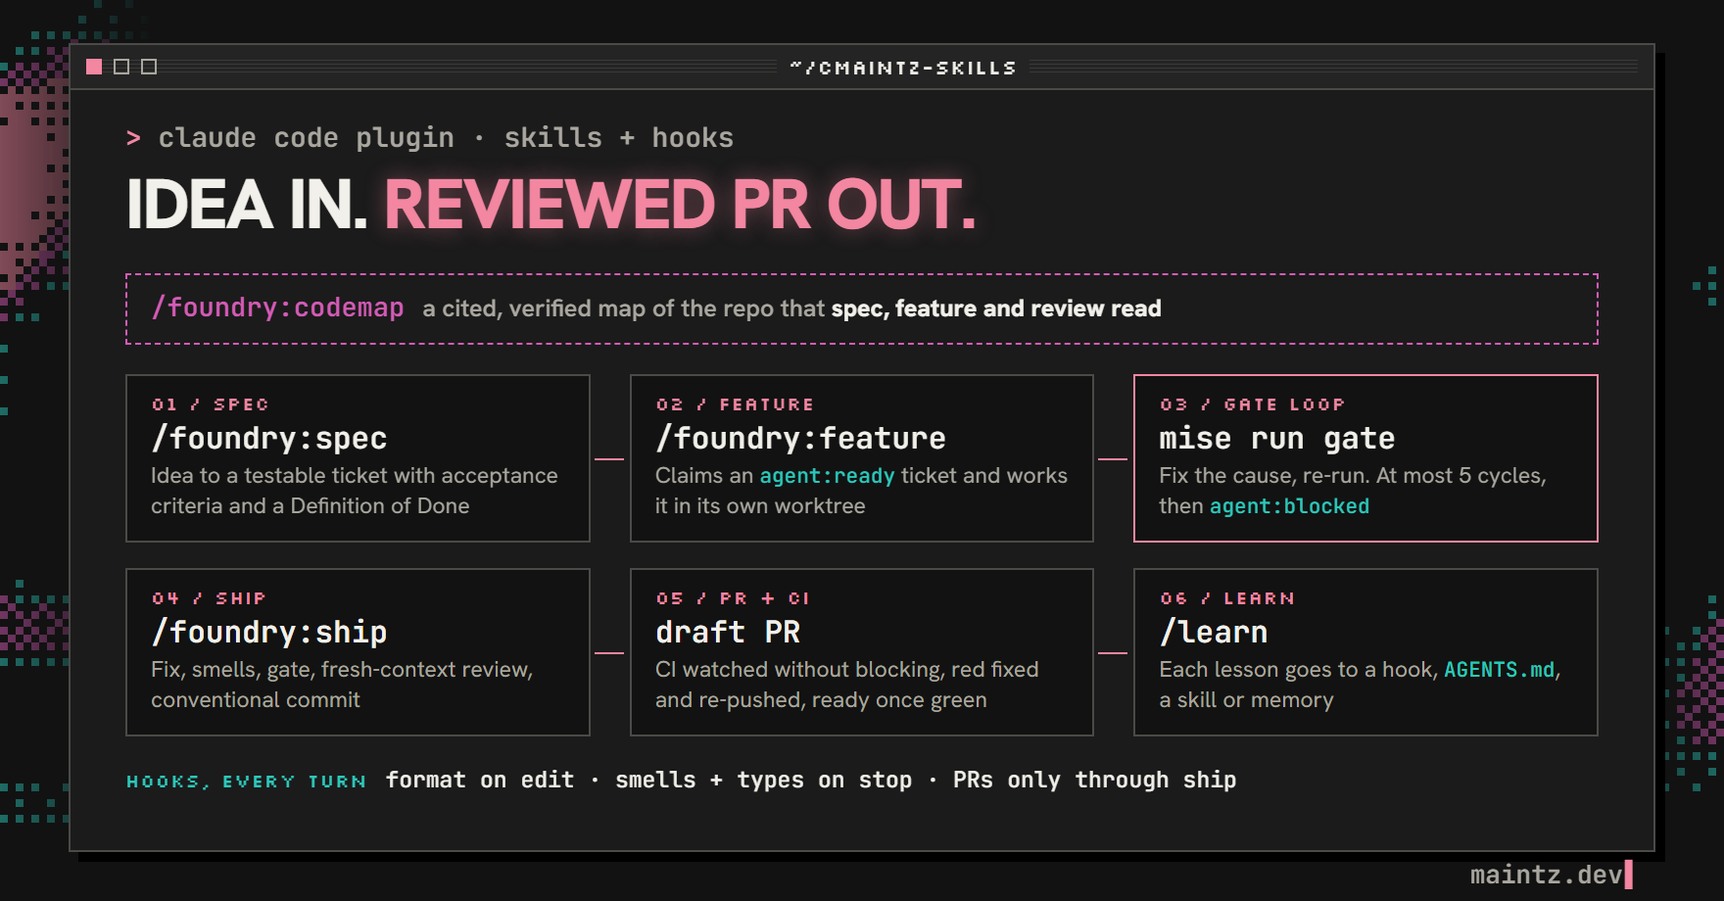
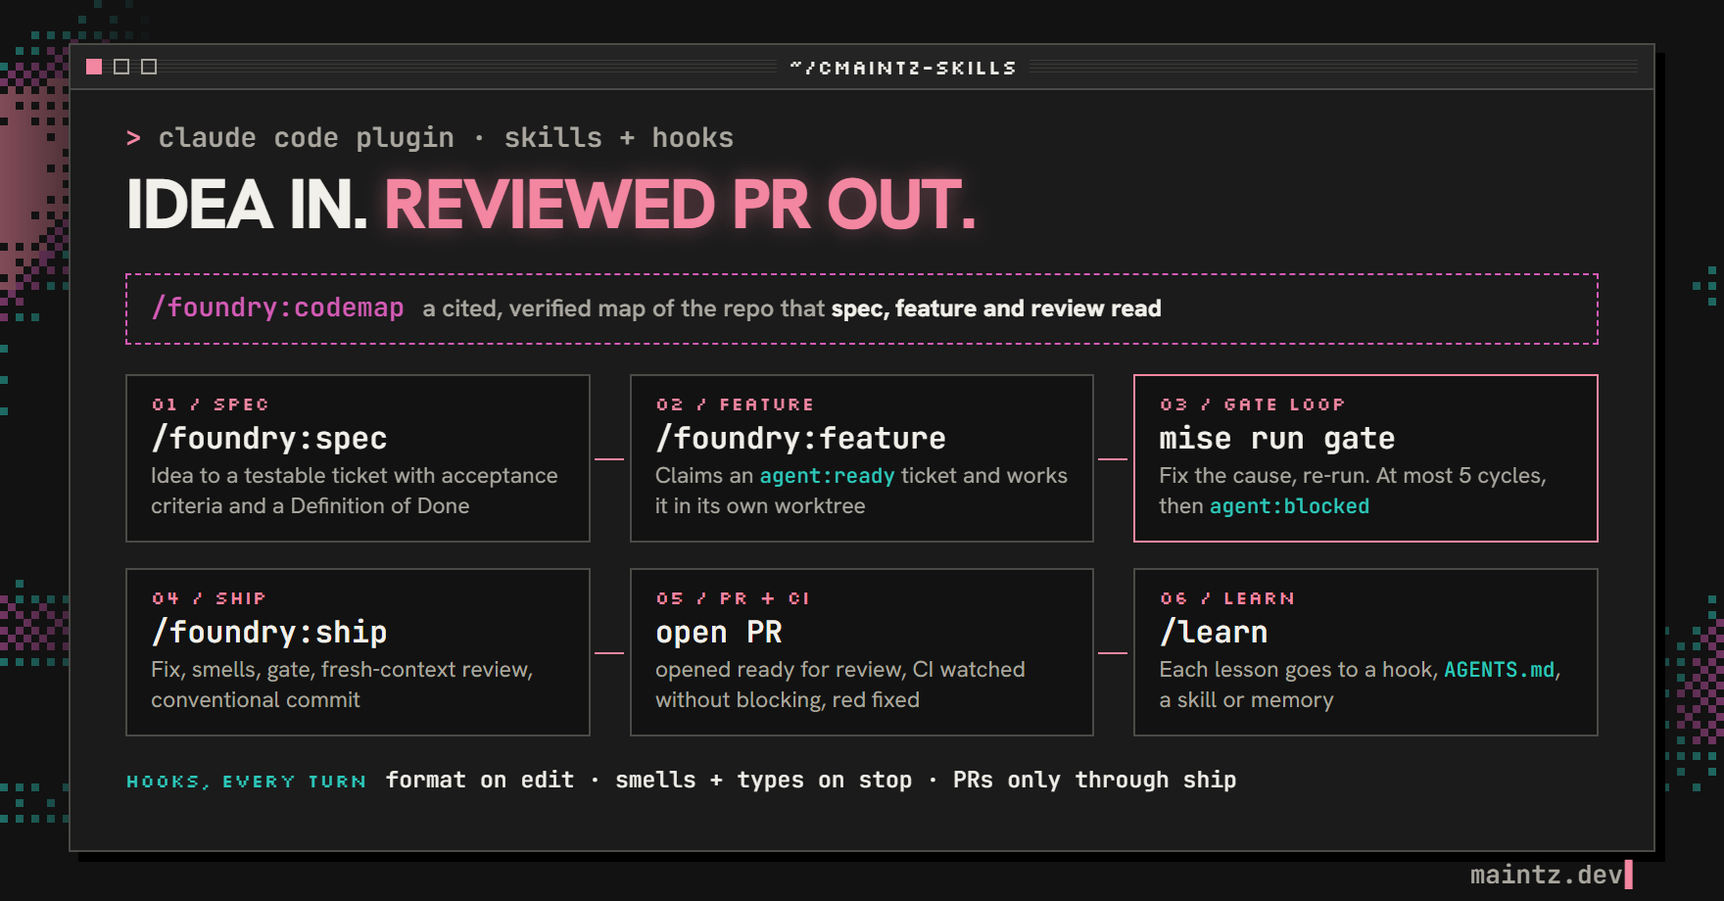
feat(foundry): open ship PRs ready for review instead of as drafts
Drafts added a manual-feeling flip step and kept the PR out of
reviewers' queues until CI went green. foundry-ship-pr now opens the PR
ready, marks a reused draft ready, and no longer passes
--ready-on-green to the watch. foundry-pr-watch keeps the flag for
anyone who opens a draft on purpose.

Changed region(s): [[0.375, 0.6696, 0.5938, 0.7913]]

diff --git a/docs/readme-visual.html b/docs/readme-visual.html
@@ -78,7 +78,7 @@
         <div class="step"><div class="n">02 / feature</div><h2>/foundry:feature</h2><p>Claims an <code>agent:ready</code> ticket and works it in its own worktree</p></div>
         <div class="step hot"><div class="n">03 / gate loop</div><h2>mise run gate</h2><p>Fix the cause, re-run. At most 5 cycles, then <code>agent:blocked</code></p></div>
         <div class="step"><div class="n">04 / ship</div><h2>/foundry:ship</h2><p>Fix, smells, gate, fresh-context review, conventional commit</p></div>
-        <div class="step"><div class="n">05 / pr + ci</div><h2>draft PR</h2><p>CI watched without blocking, red fixed and re-pushed, ready once green</p></div>
+        <div class="step"><div class="n">05 / pr + ci</div><h2>open PR</h2><p>opened ready for review, CI watched without blocking, red fixed</p></div>
         <div class="step"><div class="n">06 / learn</div><h2>/learn</h2><p>Each lesson goes to a hook, <code>AGENTS.md</code>, a skill or memory</p></div>
       </div>
 

diff --git a/docs/codemap/scripts.md b/docs/codemap/scripts.md
@@ -9,8 +9,8 @@ paths: [plugins/foundry/scripts]
 The executable side of the foundry plugin: the scripts its skills, hooks and MCP server shell out to. They open and CI-watch PRs (`plugins/foundry/scripts/foundry-ship-pr`), summarise verb telemetry (`plugins/foundry/scripts/foundry-loop-report`), inventory a repo for the codemap skill (`plugins/foundry/scripts/codemap/census.mjs#census`), serve read-only MCP tools (`plugins/foundry/scripts/explain-mcp/server.mjs`) and run the advisory Jev routing layer (`plugins/foundry/scripts/jev/route.mjs`).
 
 ## Features
-- Push the current branch, open a draft PR (or reuse the existing one) and start a background CI watch, with title and body read from files (`plugins/foundry/scripts/foundry-ship-pr#create_pr`, `plugins/foundry/scripts/foundry-ship-pr#existing_pr`). `--repo` is refused with exit 2; a rejected push exits 3 (`plugins/foundry/scripts/foundry-ship-pr`).
-- Wait for a PR's checks on a given commit, print the verdict and optionally mark the draft ready on green (`plugins/foundry/scripts/foundry-pr-watch#wait_for_checks`, `plugins/foundry/scripts/foundry-pr-watch`). The poll interval comes from `FOUNDRY_PR_WATCH_POLL_SECONDS`, default 15 (`plugins/foundry/scripts/foundry-pr-watch`).
+- Push the current branch, open a PR ready for review (or reuse the existing one, marking a draft ready) and start a background CI watch, with title and body read from files (`plugins/foundry/scripts/foundry-ship-pr#create_pr`, `plugins/foundry/scripts/foundry-ship-pr#existing_pr`). `--repo` is refused with exit 2; a rejected push exits 3 (`plugins/foundry/scripts/foundry-ship-pr`).
+- Wait for a PR's checks on a given commit, print the verdict and optionally mark a draft PR ready on green (`plugins/foundry/scripts/foundry-pr-watch#wait_for_checks`, `plugins/foundry/scripts/foundry-pr-watch`). The poll interval comes from `FOUNDRY_PR_WATCH_POLL_SECONDS`, default 15 (`plugins/foundry/scripts/foundry-pr-watch`).
 - One-shot, non-blocking check verdict for a PR, dumping the failed-step logs of each failing or cancelled run; exit 0 passed, 1 failed, 2 pending (`plugins/foundry/scripts/foundry-pr-report#checks_json`, `plugins/foundry/scripts/foundry-pr-report#dump_failures`).
 - Summarise verb telemetry JSONL into per-verb runs, fails, pass-to-fail regressions and still-red verbs, as text or `--json`; the text report adds the time sink and smell trend (`plugins/foundry/scripts/foundry-loop-report#summarise`, `plugins/foundry/scripts/foundry-loop-report#smell_trend`, `plugins/foundry/scripts/foundry-loop-report#as_json`). The log path is the argument, else `FOUNDRY_TELEMETRY`, else `.foundry/telemetry.jsonl` (`plugins/foundry/scripts/foundry-loop-report#main`).
 - Print a deterministic JSON census of a git repo: manifests, entrypoints, schemas, env vars, churn, co-change and a slice plan (`plugins/foundry/scripts/codemap/census.mjs#census`), via per-file-type detectors where the first matching detector handles a file (`plugins/foundry/scripts/codemap/census.mjs`, `plugins/foundry/scripts/codemap/detectors/`).
@@ -27,15 +27,15 @@ The executable side of the foundry plugin: the scripts its skills, hooks and MCP
 - Jev routing defaults `DEFAULT_CONFIG` (review depth threshold 1.5, min confidence 0.6, tool-call warn 0.5, hold off) (`plugins/foundry/scripts/jev/route.mjs#DEFAULT_CONFIG`).
 
 ## Happy paths
-### Ship a branch to a draft PR and watch its CI
+### Ship a branch to a PR and watch its CI
 1. Entrypoint: `foundry-ship-pr --body-file <path> [--title-file <path>] [--base <branch>]` (`plugins/foundry/scripts/foundry-ship-pr`). The guard hook names this script as the sanctioned path when it denies a bare `gh pr create` (`plugins/foundry/hooks/guard-pr-create.sh`).
 2. `git push -u origin HEAD` on every run; a rejection exits 3 (`plugins/foundry/scripts/foundry-ship-pr`).
-3. Looks up the branch's PR with `gh pr view`; if none, runs `gh pr create --draft --head <branch>` with the title from `--title-file` or HEAD's subject and the base from `--base` or the repo default branch (`plugins/foundry/scripts/foundry-ship-pr#existing_pr`, `plugins/foundry/scripts/foundry-ship-pr#create_pr`, `plugins/foundry/scripts/foundry-ship-pr#default_base`).
+3. Looks up the branch's PR with `gh pr view`; if none, runs `gh pr create --head <branch>` with the title from `--title-file` or HEAD's subject and the base from `--base` or the repo default branch (`plugins/foundry/scripts/foundry-ship-pr#existing_pr`, `plugins/foundry/scripts/foundry-ship-pr#create_pr`, `plugins/foundry/scripts/foundry-ship-pr#default_base`). A PR that is still a draft is marked ready with `gh pr ready` (`plugins/foundry/scripts/foundry-ship-pr`).
 4. Writes the PR URL to `.foundry/pr-url` (`plugins/foundry/scripts/foundry-ship-pr`).
-5. Builds the command `foundry-pr-watch <pr> --sha <pushed sha> --ready-on-green; echo sentinel` and runs it in a new Herdr pane when `HERDR_ENV=1` and the split succeeds, else as a `nohup` background process logging to `.foundry/pr-watch.log` (`plugins/foundry/scripts/foundry-ship-pr#watch_in_herdr_pane`, `plugins/foundry/scripts/foundry-ship-pr#watch_detached`).
+5. Builds the command `foundry-pr-watch <pr> --sha <pushed sha>; echo sentinel` and runs it in a new Herdr pane when `HERDR_ENV=1` and the split succeeds, else as a `nohup` background process logging to `.foundry/pr-watch.log` (`plugins/foundry/scripts/foundry-ship-pr#watch_in_herdr_pane`, `plugins/foundry/scripts/foundry-ship-pr#watch_detached`).
 6. In the watch: polls up to 20 times until the PR head equals the pushed sha and at least one check exists; exits 2 if the head never arrived or no checks registered (`plugins/foundry/scripts/foundry-pr-watch#wait_for_checks`).
 7. Runs `gh pr checks --watch --interval 30`, then `foundry-pr-report`, which lists `bucket<TAB>name` per check and, on any fail or cancel bucket, prints `gh run view --log-failed` for each run id (`plugins/foundry/scripts/foundry-pr-watch`, `plugins/foundry/scripts/foundry-pr-report#dump_failures`).
-8. Side effect: on exit 0 with `--ready-on-green`, `gh pr ready` marks the draft ready; the watch exits with the report's code (`plugins/foundry/scripts/foundry-pr-watch`).
+8. The watch exits with the report's code (`plugins/foundry/scripts/foundry-pr-watch`).
 
 ### Census a repo for the codemap skill
 1. Entrypoint: `node census.mjs [--since ...] [--threshold ...] [--min-shared ...]`, run directly (argv vs module realpath check); bad flags exit 2 (`plugins/foundry/scripts/codemap/census.mjs#invokedDirectly`, `plugins/foundry/scripts/codemap/census.mjs#parseArgs`). The codemap skill invokes it (`plugins/foundry/skills/codemap/SKILL.md`).

diff --git a/README.md b/README.md
@@ -2,7 +2,7 @@
 
 The agent half of [Foundry](https://github.com/CMaintz/foundry): a Claude Code plugin whose skills and hooks drive an agent from an idea to a reviewed pull request, and keep it honest against a deterministic gate on the way.
 
-![The cmaintz-skills loop: /foundry:spec turns an idea into a ticket, /foundry:feature claims it, mise run gate loops until green, /foundry:ship reviews and commits, a draft PR is watched in CI, and /learn routes the lessons. /foundry:codemap gives spec, feature and review a cited map of the repo. Hooks format, check smells and types, and force PRs through ship on every turn.](docs/readme-visual.png)
+![The cmaintz-skills loop: /foundry:spec turns an idea into a ticket, /foundry:feature claims it, mise run gate loops until green, /foundry:ship reviews and commits, the PR is watched in CI, and /learn routes the lessons. /foundry:codemap gives spec, feature and review a cited map of the repo. Hooks format, check smells and types, and force PRs through ship on every turn.](docs/readme-visual.png)
 
 ## The method
 
@@ -49,8 +49,8 @@ Only `plugins/foundry/` is installed; the rest of the repo (CI, docs, `mise.toml
 1. **`codemap`** maps the repo once, and refreshes only the slices that went stale.
 2. **`spec`** turns an idea into a testable ticket and files it as `agent:ready`.
 3. **`feature`** claims it, works it in its own worktree, loops on `mise run gate` until green, then has **`verify`** check it against the ticket.
-4. **`ship`** re-gates, reviews (and verifies, if `feature` didn't) in a fresh context, commits and opens a draft PR.
-5. **CI** is watched without blocking; a red run is fixed and re-pushed, and the PR goes ready once green.
+4. **`ship`** re-gates, reviews (and verifies, if `feature` didn't) in a fresh context, commits and opens a PR, ready for review.
+5. **CI** is watched without blocking; a red run is fixed and re-pushed until it goes green.
 6. **`learn`** (from [ivetts-skills](https://github.com/devill/ivetts-skills)) turns what went wrong into a hook, a rule or a skill, so the next loop starts better.
 
 The hooks run underneath every step.
@@ -59,7 +59,7 @@ The hooks run underneath every step.
 
 - `spec`: turns a rough idea into a testable spec through a short back-and-forth: acceptance criteria plus a Definition of Done kept separate from them. Its procedure drops DoD items that only restate gate or `ship` checks and files only after you explicitly approve the full ticket; nothing checks the filed ticket's shape. With a codemap, its pointers come from the owning slices and must exist in the tree.
 - `feature`: claims a ready ticket, reads the codemap slices it touches, implements it in its own worktree, loops against `mise run gate` (at most 5 cycles, then `agent:blocked`), runs `verify` and fixes what it fails, and hands off to `ship`. Run it on one ticket (`/foundry:feature <ref>`) or as a backlog puller (`/loop /foundry:feature`).
-- `ship`: the one way a change leaves the working tree. Auto-fix, structural smells, a green gate, a fresh-context review and `verify` against the linked issue (with the verify table in the PR body), a conventional commit, then a draft PR through `foundry-ship-pr`, which starts a background CI watch that marks the PR ready once green. Review happens before the PR exists, which also keeps API keys out of CI.
+- `ship`: the one way a change leaves the working tree. Auto-fix, structural smells, a green gate, a fresh-context review and `verify` against the linked issue (with the verify table in the PR body), a conventional commit, then a PR, ready for review, through `foundry-ship-pr`, which starts a background CI watch. Review happens before the PR exists, which also keeps API keys out of CI.
 - `review`: one reviewer instead of three. Correctness, standards and spec lenses in fresh sub-agents, scaled to the size of the change, plus a red-team lens at `high` effort. A fresh refuter then tries to disprove each finding, and only the survivors are reported. The spec lens checks the diff against the acceptance criteria and the DoD, and asks about edits in codemap slices the ticket didn't mention.
 - `verify`: checks a change against its ticket. A read-only fresh-context subagent gets only the ticket, the diff and the means to check (tests, the app, `gh`), and returns pass, fail or can't check with evidence for every acceptance criterion and DoD item, including DoD items outside the diff. Advisory, and with no ticket it stops rather than inventing criteria. Run it yourself (`/foundry:verify [ref]`); `feature` and `ship` call it too.
 - `codemap`: `/foundry:codemap` writes a committed, cited, SHA-stamped map of the repo (`docs/codemap/`) from a deterministic census, with a verifier spot-checking claims against the code. `/foundry:codemap refresh` re-audits only the slices whose cited files changed. It describes, never judges, and hands its output to `ship` as a docs PR. Foundry's `mise run codemap:check` fails when a citation no longer resolves and reports how many commits each slice is behind. It is advisory and not part of `gate`, so nothing fails a build on it; run it yourself.

diff --git a/plugins/foundry/skills/ship/SKILL.md b/plugins/foundry/skills/ship/SKILL.md
@@ -82,7 +82,7 @@ Conventional commits: an imperative subject of 72 chars max saying what changed,
 
 Write the PR body to a file first, and keep it short: the problem and why, a few bullets on approach, what a reviewer should look at closely, anything deliberately left out (including `TODO`s), any baseline movement, the reason for any snooze from step 2, and the `verify` table from step 4. No file lists, no testing essays. It goes in a **file**, never on the command line, because the `guard-pr-create.sh` hook denies a raw `gh pr create` (so no agent skips steps 1-5) and prose that mentions `gh pr create` would otherwise trip it.
 
-The sanctioned path is **`foundry-ship-pr`**: it pushes the branch, opens a draft PR, then starts the `pr-ci-watch` watcher (`foundry-pr-watch --ready-on-green`) in the background, which marks the PR ready once green. It runs `gh pr create` as a subprocess, which the hook never sees, so it is the one way through. Run it from the worktree whose branch you are shipping, as an ordinary (foreground) Bash call: it returns as soon as the PR is open, because the watch is already off the critical path. There is no `--repo`: the repo is the one the checkout's `origin` points at, linked worktrees included.
+The sanctioned path is **`foundry-ship-pr`**: it pushes the branch, opens the PR ready for review (never a draft, and a reused draft is marked ready), then starts the `pr-ci-watch` watcher (`foundry-pr-watch`) in the background. It runs `gh pr create` as a subprocess, which the hook never sees, so it is the one way through. Run it from the worktree whose branch you are shipping, as an ordinary (foreground) Bash call: it returns as soon as the PR is open, because the watch is already off the critical path. There is no `--repo`: the repo is the one the checkout's `origin` points at, linked worktrees included.
 
 ```bash
 "${CLAUDE_PLUGIN_ROOT}/scripts/foundry-ship-pr" --body-file <file> [--title-file <file>] [--base <branch>]
@@ -96,7 +96,7 @@ If the change **loosens** the gate alongside source (grows a suppression baselin
 
 A green local `gate` is necessary, not sufficient. CI runs checks your six-verb gate does **not**: the smells-vs-baseline job, secret scan, SAST (semgrep/CodeQL), dependency review. So when the watch finishes, you **must act on its result** - "I pushed, so it's green" is exactly how a red PR gets left behind.
 
-Collect the verdict the way **`foundry:pr-ci-watch`** does: keep working, and check between other steps for the `---PR-CI-WATCH-DONE--- exit <n>` line (0 passed and the PR is now ready, 1 a check failed, 2 nothing to judge). In Herdr, read the pane the script named (`herdr pane read <pane> --source recent-unwrapped --lines 200`) and close it once you are done with it. Outside Herdr, have the session woken when it lands by starting a background Bash task (`run_in_background: true`, generous timeout) that waits on the log:
+Collect the verdict the way **`foundry:pr-ci-watch`** does: keep working, and check between other steps for the `---PR-CI-WATCH-DONE--- exit <n>` line (0 passed, 1 a check failed, 2 nothing to judge). In Herdr, read the pane the script named (`herdr pane read <pane> --source recent-unwrapped --lines 200`) and close it once you are done with it. Outside Herdr, have the session woken when it lands by starting a background Bash task (`run_in_background: true`, generous timeout) that waits on the log:
 
 ```bash
 until grep -q -- '---PR-CI-WATCH-DONE---' .foundry/pr-watch.log; do sleep 15; done; cat .foundry/pr-watch.log

diff --git a/docs/codemap/skills.md b/docs/codemap/skills.md
@@ -20,7 +20,7 @@ format contract (`plugins/foundry/skills/codemap/FORMAT.md`).
   an isolated worktree, loops `mise run fix` / `smells` / `gate` until green, runs `verify`, then
   hands to `ship` (`plugins/foundry/skills/feature/SKILL.md`).
 - `ship`: takes a finished change through fix, smells, gate, `review` and `verify`, a
-  conventional commit, then opens a draft PR and starts a CI watch via `foundry-ship-pr`
+  conventional commit, then opens a PR ready for review and starts a CI watch via `foundry-ship-pr`
   (`plugins/foundry/skills/ship/SKILL.md`, `plugins/foundry/scripts/foundry-ship-pr`).
 - `review`: advisory review in fresh sub-agents across correctness, standards and spec lenses
   (plus red-team at `high`), scaled by diff size and effort, with a refuter pass before
@@ -61,10 +61,9 @@ format contract (`plugins/foundry/skills/codemap/FORMAT.md`).
   Foundry-made, unlocked, merged, pushed and clean (`plugins/foundry/skills/ship/SKILL.md`).
 - Escalation comments carrying the stuck state on the issue thread
   (`plugins/foundry/skills/feature/SKILL.md`).
-- Draft PRs, plus `.foundry/pr-url` and `.foundry/pr-watch.log`, written by `foundry-ship-pr`
-  (`plugins/foundry/scripts/foundry-ship-pr#create_pr`,
-  `plugins/foundry/scripts/foundry-ship-pr#watch_detached`); the watch marks the PR ready on
-  green (`plugins/foundry/scripts/foundry-pr-watch`).
+- PRs opened ready for review, plus `.foundry/pr-url` and `.foundry/pr-watch.log`, written by
+  `foundry-ship-pr` (`plugins/foundry/scripts/foundry-ship-pr#create_pr`,
+  `plugins/foundry/scripts/foundry-ship-pr#watch_detached`).
 - Herdr monitor panes spawned by `pr-ci-watch`, which closes only the pane it created
   (`plugins/foundry/skills/pr-ci-watch/SKILL.md`).
 - `docs/codemap/` files (INDEX, one per domain slice, three lenses), written only after
@@ -109,9 +108,9 @@ format contract (`plugins/foundry/skills/codemap/FORMAT.md`).
    full diff, invokes `review` and (unless already passed on this HEAD) `verify`, and writes a
    conventional commit with `Closes #<n>` (`plugins/foundry/skills/ship/SKILL.md`).
 8. `ship` runs `foundry-ship-pr --body-file <file>`, which pushes with `git push -u origin HEAD`
-   (exit 3 on rejection), opens or finds a draft PR, writes `.foundry/pr-url`, and starts
-   `foundry-pr-watch --sha <sha> --ready-on-green` in a Herdr pane when `HERDR_ENV=1`, else
-   detached to `.foundry/pr-watch.log` (`plugins/foundry/skills/ship/SKILL.md`,
+   (exit 3 on rejection), opens or finds the PR (marking a draft ready), writes
+   `.foundry/pr-url`, and starts `foundry-pr-watch --sha <sha>` in a Herdr pane when
+   `HERDR_ENV=1`, else detached to `.foundry/pr-watch.log` (`plugins/foundry/skills/ship/SKILL.md`,
    `plugins/foundry/scripts/foundry-ship-pr#create_pr`,
    `plugins/foundry/scripts/foundry-ship-pr#watch_in_herdr_pane`).
 9. Side effects: the watch waits for the pushed commit's checks, prints `foundry-pr-report`'s

diff --git a/docs/codemap/INDEX.md b/docs/codemap/INDEX.md
@@ -30,7 +30,7 @@ systems), [runtime.md](runtime.md) (install and load, env vars, mise tasks, CI, 
 skills -> scripts. Detail in [skills.md](skills.md).
 1. `plugins/foundry/skills/spec/SKILL.md` files a ticket, which `plugins/foundry/skills/feature/SKILL.md` claims and drives to a green gate in a worktree, checked against its criteria by `plugins/foundry/skills/verify/SKILL.md`.
 2. `plugins/foundry/skills/ship/SKILL.md` re-runs the gate, invokes `plugins/foundry/skills/review/SKILL.md`, commits, and runs `plugins/foundry/scripts/foundry-ship-pr`.
-3. `plugins/foundry/scripts/foundry-ship-pr#create_pr` opens a draft PR and `plugins/foundry/scripts/foundry-ship-pr#watch_detached` (or `plugins/foundry/scripts/foundry-ship-pr#watch_in_herdr_pane`) starts `plugins/foundry/scripts/foundry-pr-watch`, which waits for the pushed commit's checks (`plugins/foundry/scripts/foundry-pr-watch#wait_for_checks`), prints `plugins/foundry/scripts/foundry-pr-report` and marks the PR ready on green.
+3. `plugins/foundry/scripts/foundry-ship-pr#create_pr` opens a PR ready for review and `plugins/foundry/scripts/foundry-ship-pr#watch_detached` (or `plugins/foundry/scripts/foundry-ship-pr#watch_in_herdr_pane`) starts `plugins/foundry/scripts/foundry-pr-watch`, which waits for the pushed commit's checks (`plugins/foundry/scripts/foundry-pr-watch#wait_for_checks`) and prints `plugins/foundry/scripts/foundry-pr-report`.
 
 ### A raw PR create is redirected to ship
 hooks -> scripts. Detail in [hooks.md](hooks.md).

diff --git a/docs/codemap/data-model.md b/docs/codemap/data-model.md
@@ -103,10 +103,10 @@ who reads it.
 - **Governance labels** `ruleset-change` and `suppression` - a human's sign-off; an agent
   Bash call that applies, aliases or (re)defines either is denied by
   `plugins/foundry/hooks/guard-governance-labels.sh`.
-- **PR draft/ready state** - `foundry-ship-pr` opens PRs as drafts
-  (`plugins/foundry/scripts/foundry-ship-pr#create_pr`) and `foundry-pr-watch
-  --ready-on-green` marks one ready when the verdict is green
-  (`plugins/foundry/scripts/foundry-pr-watch`).
+- **PR draft/ready state** - `foundry-ship-pr` opens PRs ready for review
+  (`plugins/foundry/scripts/foundry-ship-pr#create_pr`) and marks a reused draft ready
+  (`plugins/foundry/scripts/foundry-ship-pr`); `foundry-pr-watch --ready-on-green` marks a
+  deliberate draft ready when the verdict is green (`plugins/foundry/scripts/foundry-pr-watch`).
 
 ## Docs and hook payload formats
 

diff --git a/plugins/foundry/skills/pr-ci-watch/SKILL.md b/plugins/foundry/skills/pr-ci-watch/SKILL.md
@@ -12,8 +12,8 @@ main agent keeps working and only comes back to the result when CI has actually 
 
 It is the non-blocking form of `ship`'s step 7 ("watch CI, do not assume green"). The
 observe->fix->verify loop is the same; only the waiting is moved off the critical path.
-`foundry-ship-pr` already starts this same watch (with `--ready-on-green`, so its draft PR
-turns ready on green) when it opens or updates a PR, so after a ship you only collect that
+`foundry-ship-pr` already starts this same watch when it opens or updates a PR, so after a
+ship you only collect that
 verdict. Use this skill for a push that did not go through `foundry-ship-pr`.
 
 Two reusable pieces sit underneath it, and the skill degrades gracefully when either is

diff --git a/docs/codemap/integrations.md b/docs/codemap/integrations.md
@@ -32,7 +32,8 @@ inbound surfaces are Claude Code itself, which invokes the hooks with JSON on st
 ## GitHub, via the `gh` CLI
 
 - **PR creation and push** - `git push -u origin HEAD`, then `gh pr view`, `gh repo view`
-  (default branch) and `gh pr create --draft --head --base --title --body-file`
+  (default branch), `gh pr create --head --base --title --body-file` and `gh pr ready` for a
+  reused draft
   (`plugins/foundry/scripts/foundry-ship-pr#create_pr`,
   `plugins/foundry/scripts/foundry-ship-pr#default_base`,
   `plugins/foundry/scripts/foundry-ship-pr#existing_pr`). `--repo` is refused; the repo

diff --git a/docs/codemap/runtime.md b/docs/codemap/runtime.md
@@ -51,7 +51,7 @@ hooks, skills, scripts and a stdio MCP server inside a user's session.
 
 ## Executables shipped in the plugin
 
-- `plugins/foundry/scripts/foundry-ship-pr` (bash): push, open draft PR, start CI watch;
+- `plugins/foundry/scripts/foundry-ship-pr` (bash): push, open PR ready for review, start CI watch;
   exits 0, 2 on usage error, 3 on rejected push.
 - `plugins/foundry/scripts/foundry-pr-watch` (bash): wait for the pushed SHA's checks,
   report, optionally mark ready; exits 0, 1 or 2.
